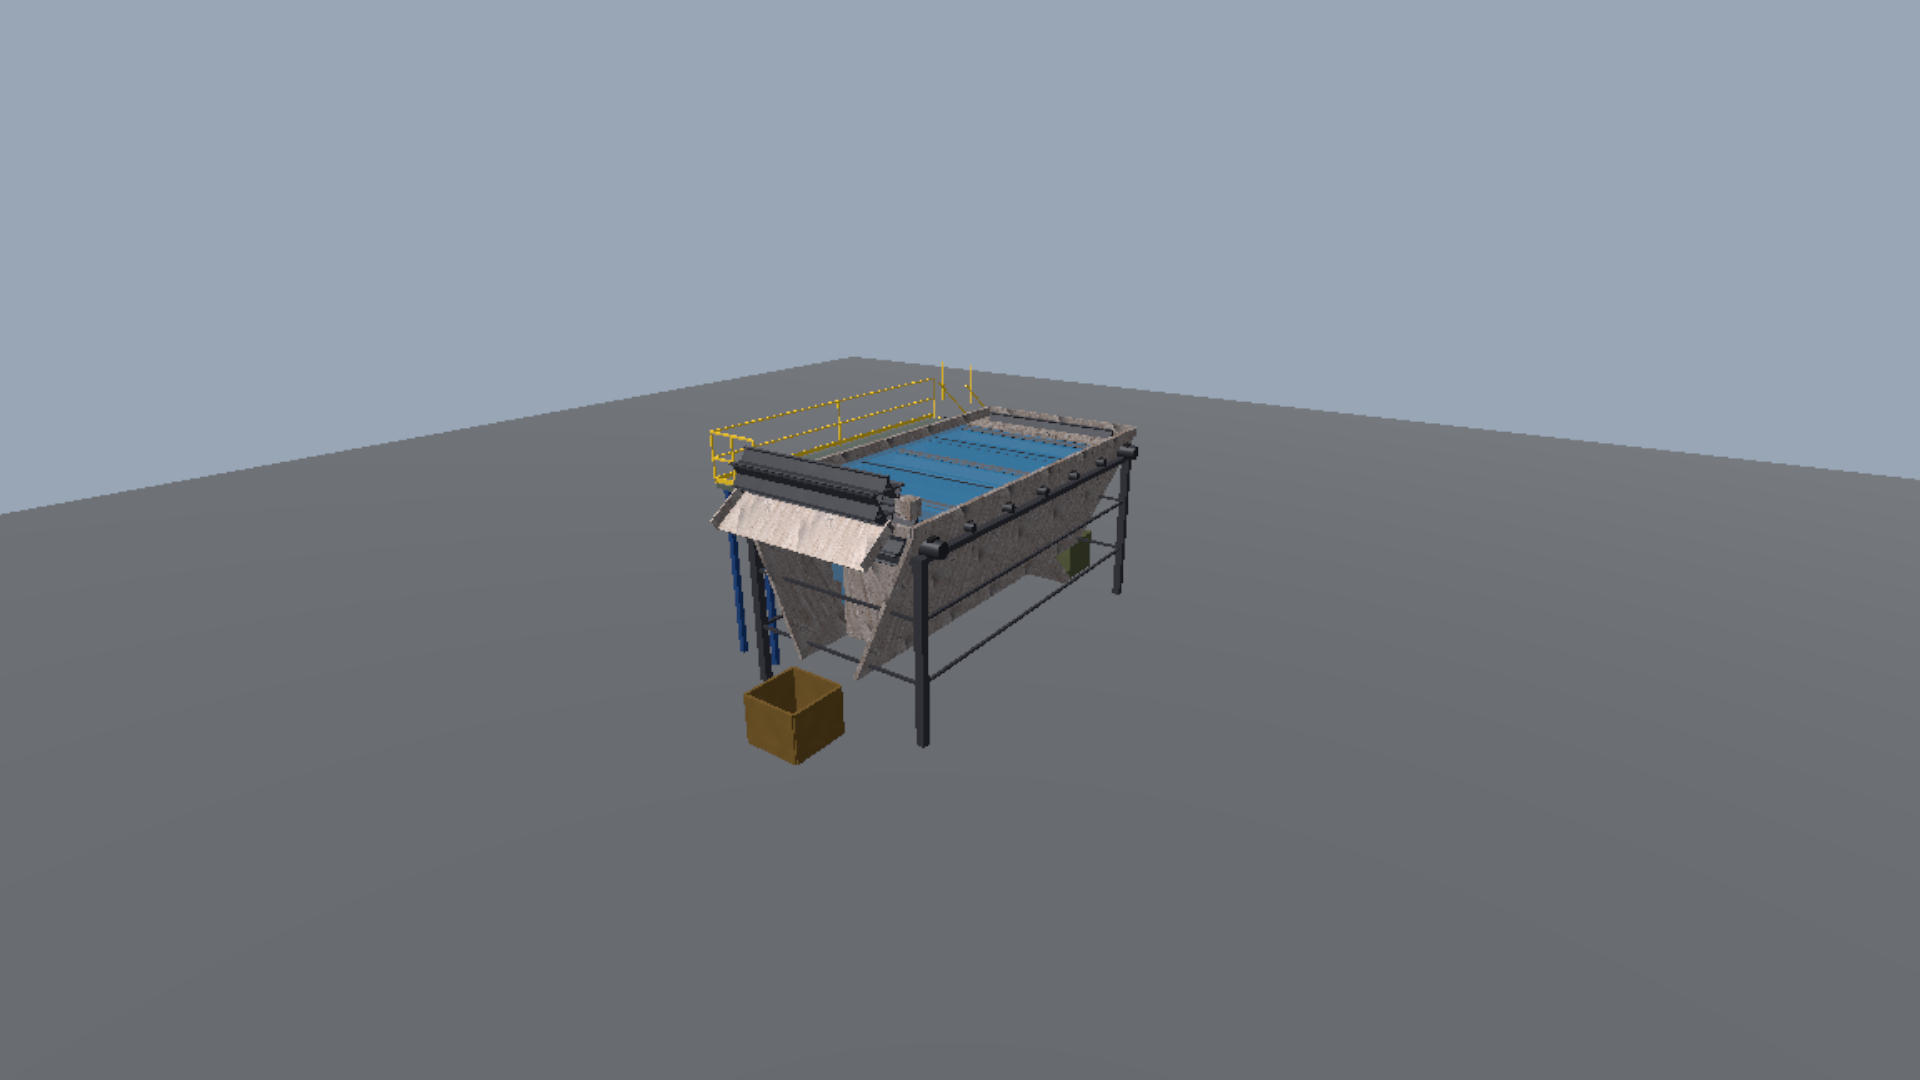
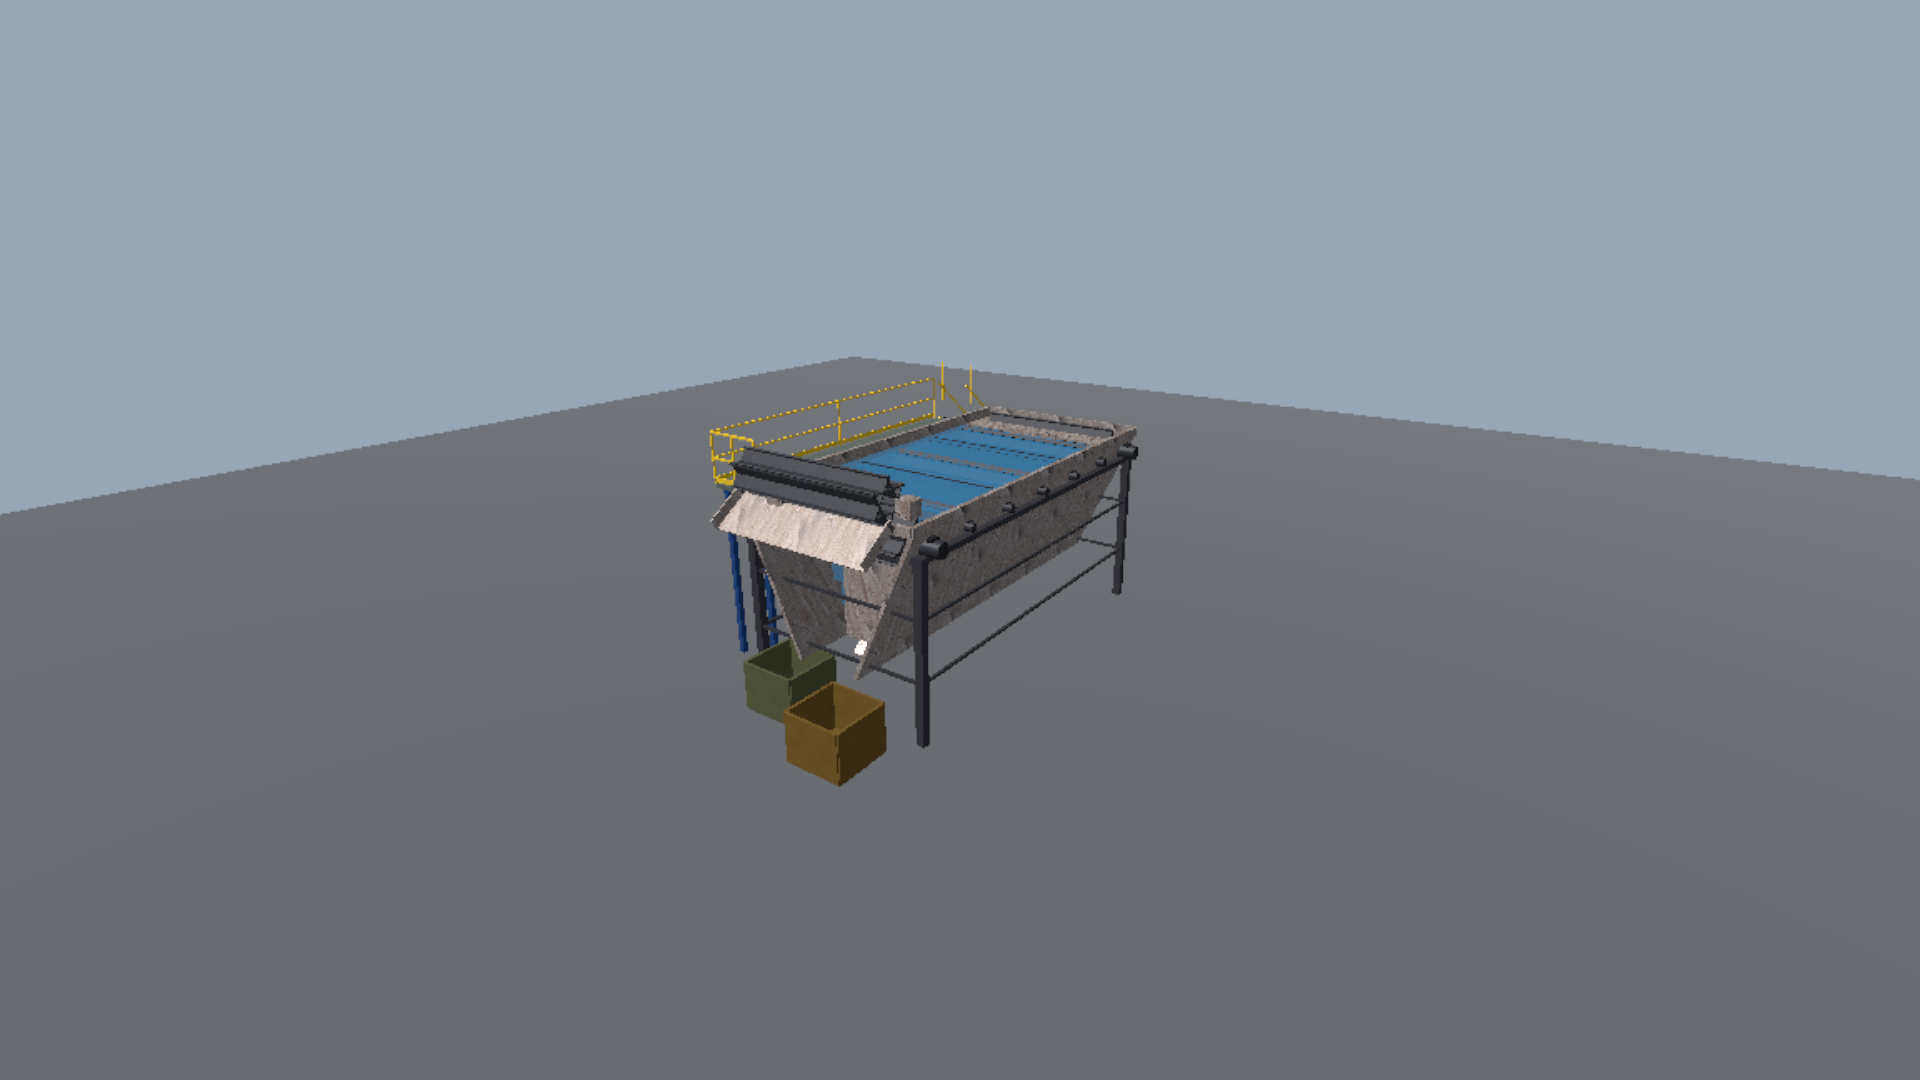
Flotation tank: rebuild the bottom scraper to the operator's side-view drawing
The operator's drawing (photos/flotation_tank_sketch_2026-08-28.png, full
colour legend) corrected the end-choice within the hour: the scraper incline
rises at the OUTLET side, not the infeed -- starting mid-bottom, climbing at
45 deg inside along the outlet wall, ENCLOSED in a chute housing that clears
the waterline ("so that the water doesn't exit through the scraper chute"),
then a bend-over downspout into the container standing on the floor past
the tank (the drawing's orange hook + pink bin). Assembly offset to -X; the
#230 surface-scraper container moved to +X so the two bins stand side by
side past the outlet wall, as drawn.

The drawing also confirms the paddle pattern (large intrek, small
transports, largest uittrek with blades at the surface), the outgoing
dewater screw cross-section at the outlet rim, and the infeed chute at the
opposite rim -- all already in the model.

World regression 17/0; line-1 conformance PASS. Render at
docs/plant/renders/shot_flotation_tank.png.

Changed region(s): [[0.375, 0.5806, 0.4688, 0.7333], [0.5312, 0.4889, 0.5938, 0.55]]

diff --git a/docs/plant/DOCS_VS_SIM_GAP_AUDIT_2026-08-28.md b/docs/plant/DOCS_VS_SIM_GAP_AUDIT_2026-08-28.md
@@ -778,8 +778,19 @@ Built: chain runs with cross flights along the flat bottom's centreline,
 idler sprocket at the +Z turn, a 45° trough rising out of the tank past the
 end wall, chain + flights on the incline, drive sprocket (spinning, comp
 "bottom_scraper") + motor at the head, discharge lip, and an open container
-on the floor beneath it. **⚠ End-choice flagged for operator eyeball:** the
-incline was placed at the -Z INFEED end (counter-flow; keeps the +Z end
-clear for surface scraper + weir + dewater screw) — the operator did not
-name the end. Render `renders/shot_flotation_tank.png`; world regression
+on the floor beneath it. The end-choice question was answered the same hour by the operator's
+side-view drawing (`photos/flotation_tank_sketch_2026-08-28.png`, full
+colour legend: black tank, blue stand, red paddles + blades, gray infeed
+chute, light-blue water lines, yellow/green outgoing screw cross-section,
+brown scraper chain + flights, orange scraper chute housing, pink
+container): the incline rises at the **OUTLET side**, starting mid-bottom
+and climbing at 45° inside along the outlet wall, in an ENCLOSED housing
+that clears the waterline ("so that the water doesn't exit through the
+scraper chute"), then a bend-over downspout drops into the container on
+the floor past the tank. Rebuilt to the drawing; the assembly sits on the
+-X side and the #230 surface-scraper container moved to +X so both bins
+stand side-by-side past the outlet wall, as drawn. The drawing also
+CONFIRMS: large intrek + small transports + largest uittrek at the surface,
+the outgoing dewater screw at the outlet rim, and the infeed chute at the
+opposite rim. Render `renders/shot_flotation_tank.png`; world regression
 17/0; line-1 conformance PASS.
